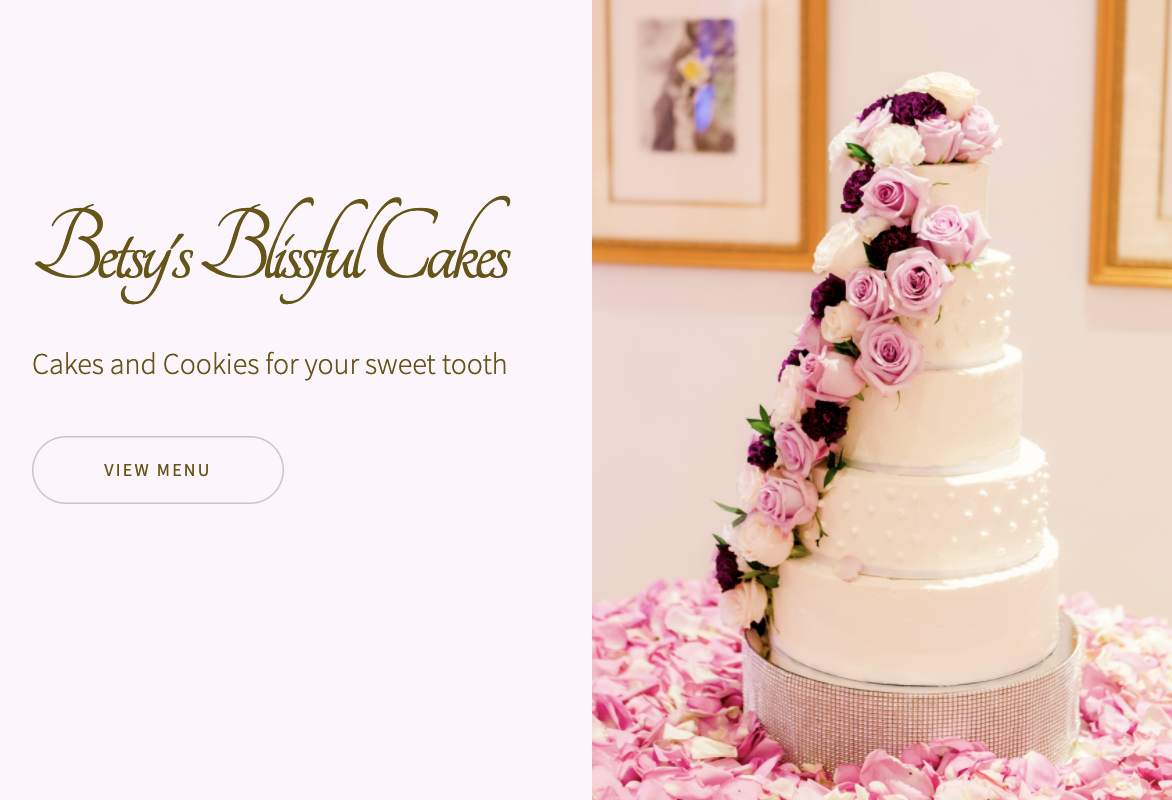
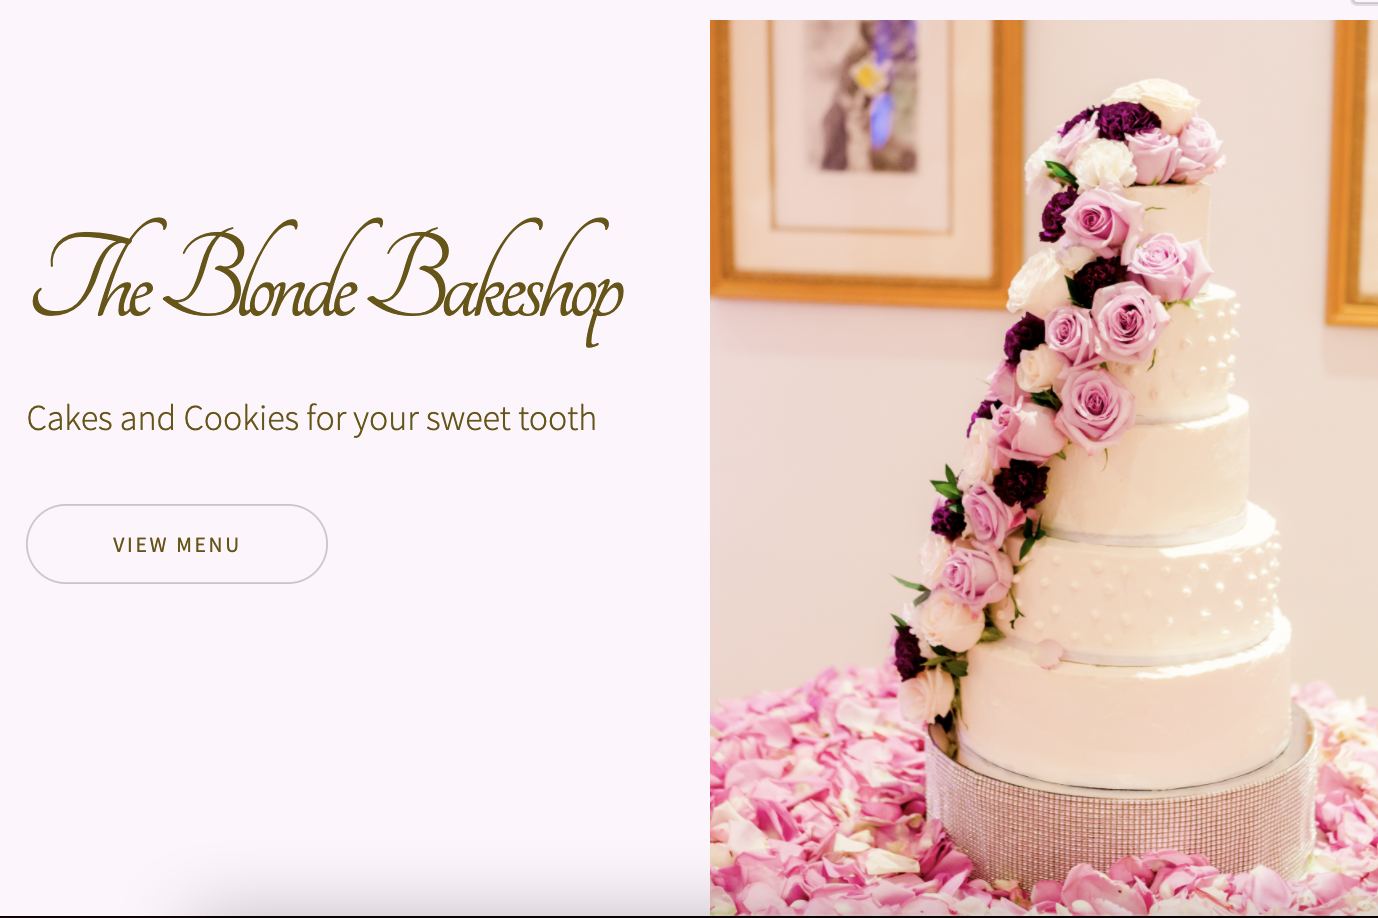
changenameandpic

diff --git a/index.html b/index.html
@@ -93,7 +93,7 @@
 			<div class="cakesite">
 				<p>This is a site I made for a local baking business! I used <a href="https://html5up.net/story">HTML5 UP</a> Story as the template code but then modified and tweaked to personalize the design. I added a pale pink background color and changed the font color to tie in with the pictures and create a softer color palette. I also worked with some phone pictures and edited them to look brighter and more professional! I used google fonts to help create the overall tone for the brand and tie it together. One of my favorite parts of this site is the sliding image gallery!</p>
 
-				<a href="https://flamboyant-kowalevski-69ff15.netlify.app/"><img class="cakesite" src="cakesite.png" alt="Image of Baking Site"></a>
+				<a href="https://www.theblondebakeshop.com/"><img class="cakesite" src="cakesite.png" alt="Image of Baking Site"></a>
 			</div>
 			<br>
 
